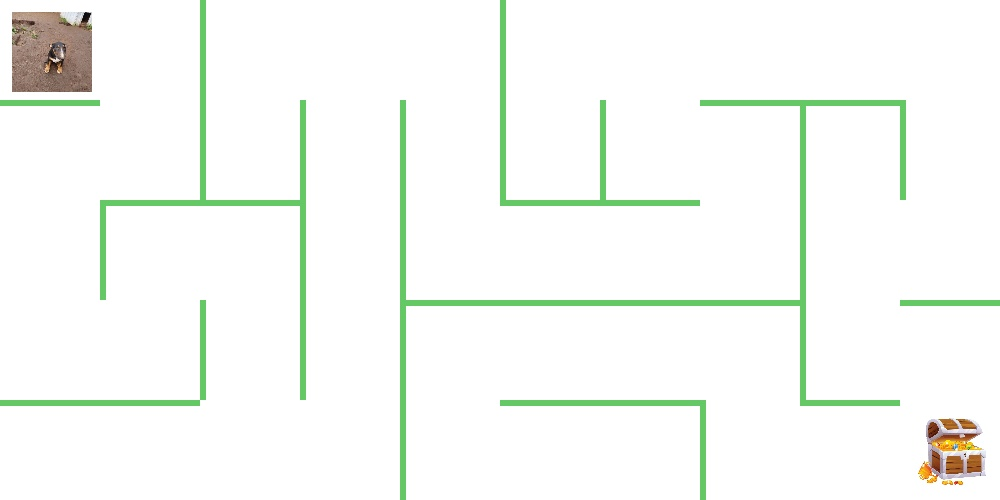
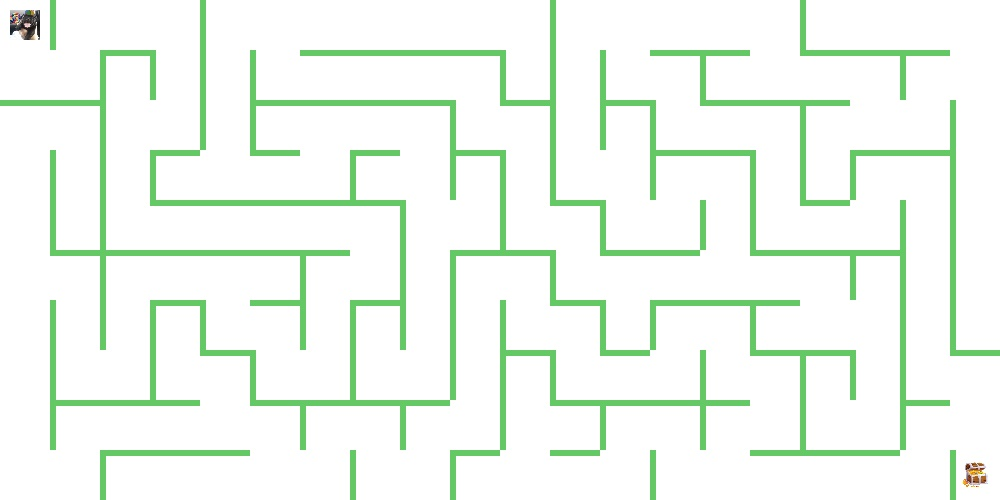
Laberinto de 20x10 celdas y personaje más chico
- Celdas de 50 px (200 en total) para un laberinto más complejo
- Personaje y tesoro de 30 px, paso de 10 px para caber en los pasillos
- Migración que borra las paredes viejas y deja a todos en el inicio
- README y captura actualizados

diff --git a/backend/views.py b/backend/views.py
@@ -13,8 +13,8 @@ import cv2
 W = 1000
 H = 500
 PATH = os.getcwd()
-TAM_PERSONAJE = 80
-INICIO_X, INICIO_Y = 12, 12  # dentro de la primera celda
+TAM_PERSONAJE = 30
+INICIO_X, INICIO_Y = 10, 10  # dentro de la primera celda
 # Create your views here.
 def dibujar_linea_horizontal(img, x_inicio, y, largo, grosor=5, color=(100, 200, 100)):                                                                                  
         for x in range(x_inicio, x_inicio + largo):                                                                                                                          
@@ -88,7 +88,7 @@ def generar_imagen(request):
         laberinto = Laberinto()
         key = request.GET.get("tecla", "")
 
-        # El personaje debe ser más chico que una celda (100x100) para pasar por los pasillos
+        # El personaje debe ser más chico que una celda (50x50) para pasar por los pasillos
         personaje = cv2.imread(PATH + p.imagen.url)
         personaje = recortar_cuadrado(personaje)
         personaje = cv2.resize(personaje, (TAM_PERSONAJE, TAM_PERSONAJE))
@@ -98,7 +98,7 @@ def generar_imagen(request):
         # Tesoro en la última celda (abajo a la derecha)
         tesoro = cv2.imread("tesoro.jpg")
         tesoro = cv2.resize(tesoro, (TAM_PERSONAJE, TAM_PERSONAJE))
-        tx, ty = 912, 412
+        tx, ty = 960, 460
 
         # Lienzo blanco donde se dibuja todo
         img = np.full((H, W, 3), 255, dtype=np.uint8)

diff --git a/backend/migrations/0008_laberinto_mas_grande.py b/backend/migrations/0008_laberinto_mas_grande.py
@@ -1,0 +1,26 @@
+from django.db import migrations, models
+
+
+def adaptar_a_laberinto_grande(apps, schema_editor):
+    # Las paredes guardadas eran de la cuadrícula anterior (celdas de 100 px): se borran
+    # y el juego genera un laberinto nuevo de 20x10 la próxima vez que se dibuje.
+    apps.get_model('backend', 'Pared').objects.all().delete()
+    # Paso más corto para poder entrar en pasillos de 45 px y todos vuelven al inicio
+    apps.get_model('backend', 'Personaje').objects.update(x=10, y=10, velocidad=10)
+    apps.get_model('backend', 'PersonajeSeleccionado').objects.update(laberinto_completado=False)
+
+
+class Migration(migrations.Migration):
+
+    dependencies = [
+        ('backend', '0007_personajeseleccionado_laberinto_completado'),
+    ]
+
+    operations = [
+        migrations.AlterField(
+            model_name='personaje',
+            name='velocidad',
+            field=models.IntegerField(default=10),
+        ),
+        migrations.RunPython(adaptar_a_laberinto_grande, migrations.RunPython.noop),
+    ]

diff --git a/poblar_personajes.py b/poblar_personajes.py
@@ -29,9 +29,9 @@ for nombre, archivo in PERSONAJES.items():
         nombre=nombre,
         defaults={"imagen": (Path("static") / archivo).as_posix()},
         create_defaults={
-            "x": 12,  # dentro de la primera celda del laberinto
-            "y": 12,
-            "velocidad": 25,
+            "x": 10,  # dentro de la primera celda del laberinto
+            "y": 10,
+            "velocidad": 10,
             "imagen": (Path("static") / archivo).as_posix(),
         },
     )

diff --git a/backend/models.py b/backend/models.py
@@ -5,7 +5,7 @@ class Personaje(models.Model):
     nombre = models.CharField(max_length=50)
     x = models.IntegerField(default=50)
     y = models.IntegerField(default=50)
-    velocidad = models.IntegerField(default=25)
+    velocidad = models.IntegerField(default=10)
     imagen = models.ImageField(upload_to='static') # En prod no hacer esto, usar un bucket
     
     def __str__(self):

diff --git a/backend/generar_imagen/Laberinto.py b/backend/generar_imagen/Laberinto.py
@@ -2,10 +2,10 @@ import random
 import cv2
 from backend.models import Pared
 
-CELDA_W = 100
-CELDA_H = 100
-COLS = 10
-FILAS = 5
+CELDA_W = 50
+CELDA_H = 50
+COLS = 20
+FILAS = 10
 GROSOR = 5
 
 ## Dibuja linea horizontal discretizada usando segmentos verticales contiguos

diff --git a/README.md b/README.md
@@ -31,7 +31,7 @@ Si da error de conexión con la base de datos, cambia `db` por `localhost` en `j
 
 ## Cómo funciona el laberinto
 
-El tablero es una cuadrícula de 10 x 5 celdas de 100 px. Si lo piensas como un grafo, cada celda es un nodo y cada pared entre dos celdas vecinas es una arista.
+El tablero es una cuadrícula de 20 x 10 celdas de 50 px (200 celdas). Si lo piensas como un grafo, cada celda es un nodo y cada pared entre dos celdas vecinas es una arista.
 
 Para generarlo uso un **DFS aleatorio** (recursive backtracker), está en `backend/generar_imagen/Laberinto.py`:
 
@@ -39,9 +39,9 @@ Para generarlo uso un **DFS aleatorio** (recursive backtracker), está en `backe
 2. Baraja las 4 direcciones y se mueve a un vecino que no haya visitado, rompiendo la pared entre los dos.
 3. Repite desde ahí. Si se queda sin vecinos libres se devuelve (backtracking) hasta encontrar otro camino.
 
-Como solo rompe paredes hacia celdas no visitadas, el resultado es un árbol: todas las celdas quedan conectadas y entre dos celdas hay **un solo camino**, así que siempre se puede llegar al tesoro. Las paredes que quedan se guardan en la tabla `Pared` y se dibujan con una función que arma las líneas pixel por pixel.
+Como solo rompe paredes hacia celdas no visitadas, el resultado es un árbol: todas las celdas quedan conectadas y entre dos celdas hay **un solo camino**, así que siempre se puede llegar al tesoro. Con 200 celdas el camino al tesoro es bastante más largo (en una prueba pasó por 73 celdas). Las paredes que quedan se guardan en la tabla `Pared` y se dibujan con una función que arma las líneas pixel por pixel.
 
-Para los choques se trata todo como rectángulos: si el personaje se va a meter en una pared, con min/max se deja justo al lado de ella en vez de cancelar el movimiento.
+Para los choques se trata todo como rectángulos: si el personaje se va a meter en una pared, con min/max se deja justo al lado de ella en vez de cancelar el movimiento. El personaje mide 30 px y avanza 10 px por tecla, así cabe justo por los pasillos de 45 px.
 
 ## Archivos importantes
 
